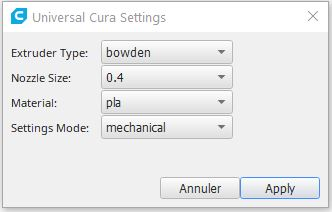
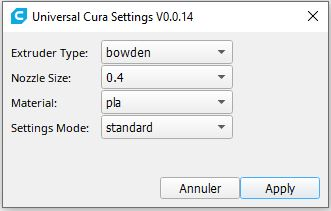
0.0.14

diff --git a/UniversalCuraSettings.qml b/UniversalCuraSettings.qml
@@ -15,7 +15,7 @@ UM.Dialog
 {
     id: base
 
-    title: "Universal Cura Settings V0.0.13"
+    title: "Universal Cura Settings V0.0.14"
 
     // NonModal like that the dialog to block input in the main window
     modality: Qt.NonModal
@@ -185,7 +185,6 @@ UM.Dialog
 				model: ListModel {
 				   id: cbeItems
 				   ListElement { text: "standard"}
-				   ListElement { text: "fast"}
 				   ListElement { text: "bed adhesion"}
 				   ListElement { text: "top surface"}
 				   ListElement { text: "warping"}

diff --git a/UniversalCuraSettings.py b/UniversalCuraSettings.py
@@ -15,6 +15,7 @@
 # Version 0.0.11 : Modification Figurine
 # Version 0.0.12 : Add Support intent
 # Version 0.0.13 : vase
+# Version 0.0.14 : Update xy_offset_layer_0
 #----------------------------------------------------------------------------------------------------------------------
 from PyQt5.QtCore import QObject, pyqtProperty, pyqtSignal, pyqtSlot, QUrl
 from PyQt5.QtGui import QDesktopServices
@@ -800,7 +801,8 @@ class UniversalCuraSettings(Extension, QObject,):
         modified_count += self._setValue("z_seam_corner",'z_seam_corner_inner')
         
         modified_count += self._setValue("bridge_settings_enabled",True)
-        modified_count += self._setValue("xy_offset_layer_0",-0.0625*machine_nozzle_size)
+        # modified_count += self._setValue("xy_offset_layer_0",-0.0625*machine_nozzle_size)
+        modified_count += self._setValue("xy_offset_layer_0",-0.125*machine_nozzle_size)
         
         # Settings according to value calculation
         _top_bottom_pattern = self._getValue("top_bottom_pattern")
